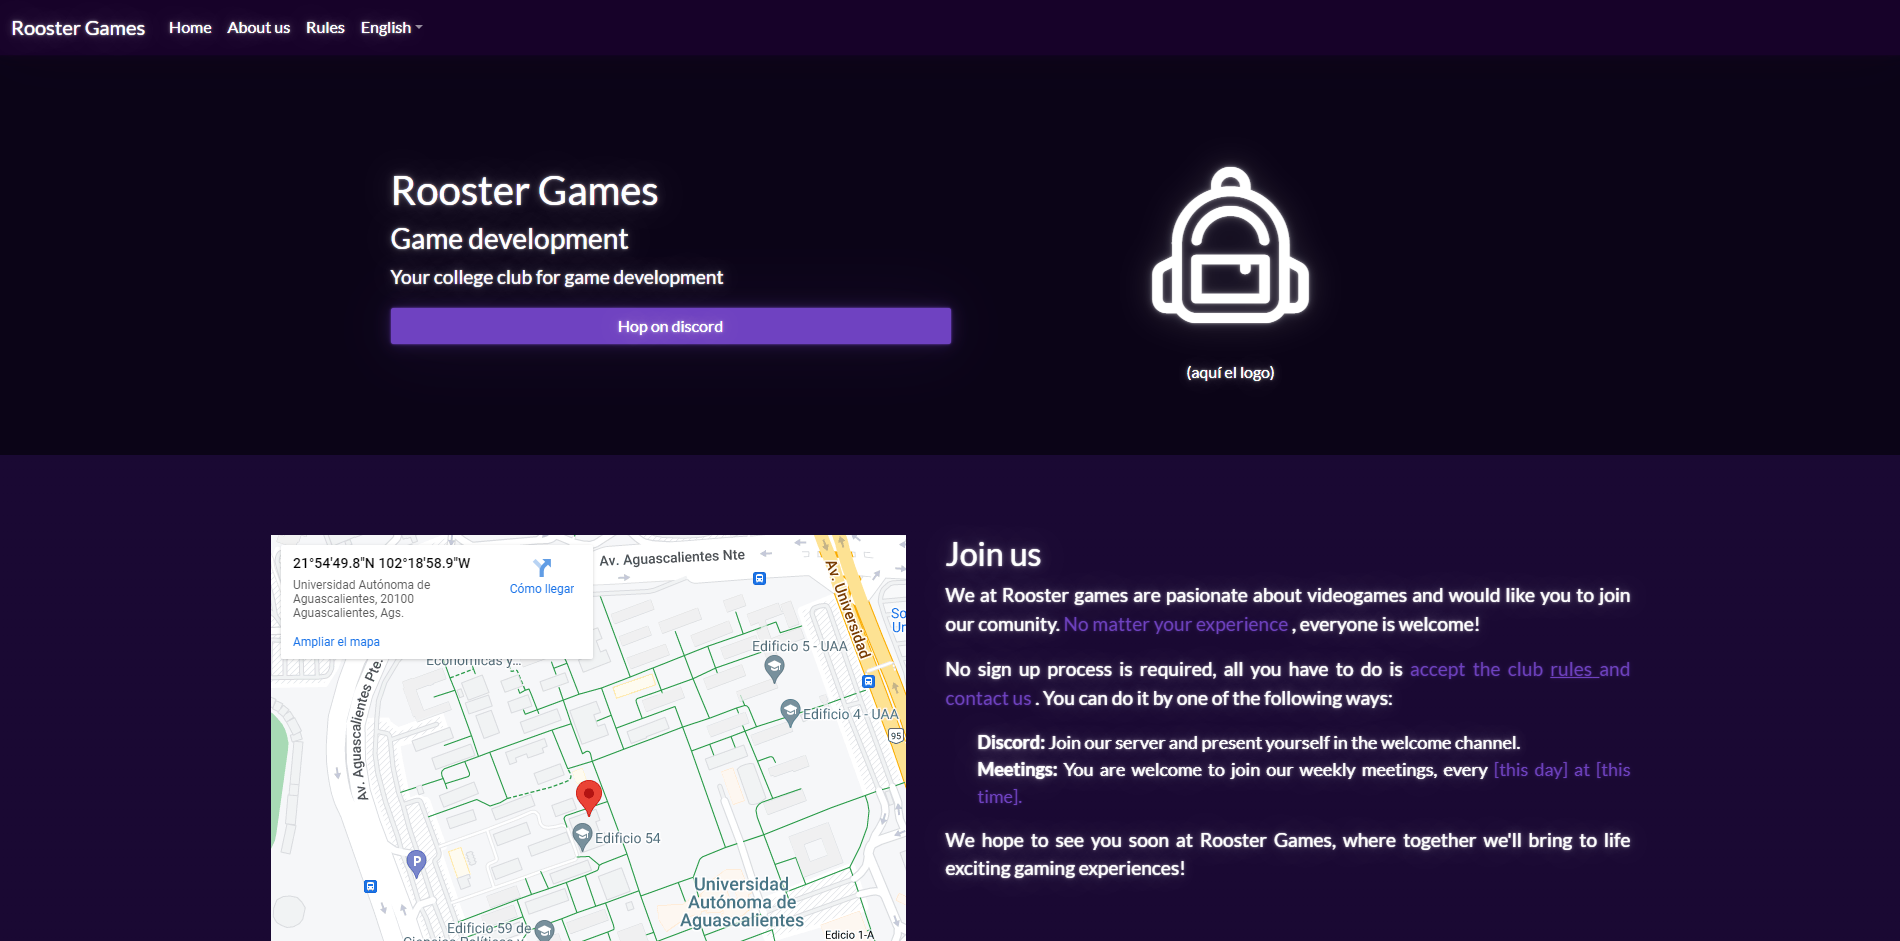
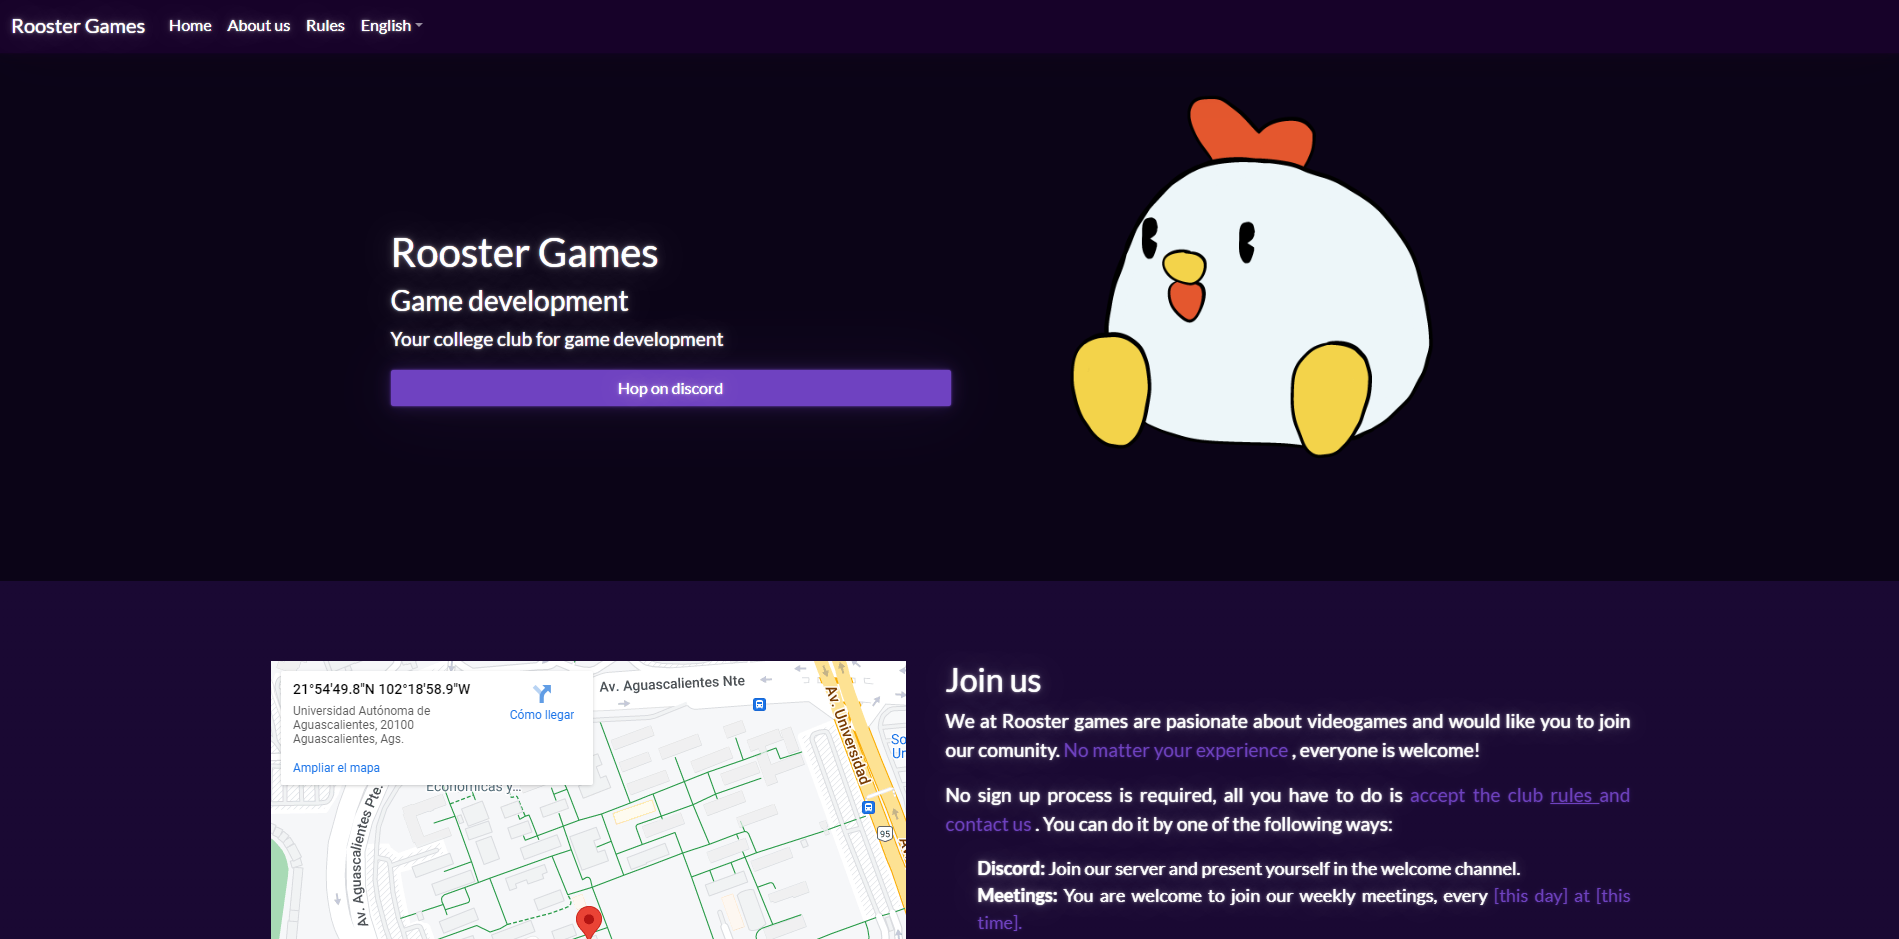
general improvement to the desktop layout

diff --git a/index.html b/index.html
@@ -4,7 +4,7 @@
     <meta charset="UTF-8">
     <meta name="viewport" content="width=device-width, initial-scale=1.0">
     <title>Leonardo Merino</title>
-    <link rel="icon" type="image/x-icon" href="img/favicon.png">
+    <link rel="icon" type="image/x-icon" href="img/favicon_1.png">
 
     <link rel="stylesheet" href="bootstrap-5.3.2-dist/css/bootstrap.min.css">
 
@@ -56,107 +56,113 @@
     <main>
 
         <section id="about-me">
-            <h3 class="section-title">About me</h3>
-            <br/>
-            <h4>
-                I'm a software developer that likes to learn and build cool stuff!
-            </h4>
-            <p>
-                For the last year I've <span class="text-info">worked prefessionally</span> with c# and c++, 
-                developing both <span class="text-info">desktop and web applications</span>. 
-                During this time I got my hands down with various <span class="text-info">source control software</span> 
-                such as git and mercurial, and mantain diferent <span class="text-info">relational databases</span> like Microsoft SQLServer and NexusDB. 
-                I'm highly interested in embedded systems and machine learning. During my free time I've learn electronics along with arduino and python. 
-                Needles to say, I like tech.
-            </p>
+
+            <div></div>
+
+            <div id="introduction">
+                <h3 class="section-title">About me</h3>
+                <br/>
+                <h4>
+                    I'm a software developer that likes to learn and build cool stuff!
+                </h4>
+                <p>
+                    For the last year I've <span class="text-info">worked prefessionally</span> with c# and c++, 
+                    developing both <span class="text-info">desktop and web applications</span>. 
+                    During this time I got my hands down with various <span class="text-info">source control software</span> 
+                    such as git and mercurial, and mantain diferent <span class="text-info">relational databases</span> like Microsoft SQLServer and NexusDB. 
+                    I'm highly interested in embedded systems and machine learning. During my free time I've learn electronics along with arduino and python. 
+                    Needles to say, I like tech.
+                </p>
+            </div>
 
         </section>
 
         <section id="experience">
-            <h3 class="section-title">Profesional Experience</h3>
-            <br></br>
-            <div id="history">
-                <div></div>
-                <div>
-                    <div class="history-line" style="height: 20px; border-radius: 5px 5px 0px 0px;"></div>
-                </div>
-                <div></div>
+            <div id="experience">
+                <h3 id="experience-title">Profesional Experience</h3>
+                <br/>
+                <div id="history">
+                    <div></div>
+                    <div>
+                        <div class="history-line" style="height: 20px; border-radius: 5px 5px 0px 0px;"></div>
+                    </div>
+                    <div></div>
 
-                <div>
-                    <h5><span class="badge bg-primary">2023</span></h5>
-                </div>
-                <div class="history-left-column-cell">
-                    <div class="history-dot"></div>
-                    <div class="history-line"></div>
-                </div>                
-                <div class="history-right-column-cell">   
-                    <h5>
-                        <strong>Junior Fullstack Developer at <a href="https://trafficsystem.mx/" target="_blank">TrafficSystem</a></strong>
-                    </h5>
-                    <p>
-                        Web and desktop application development
-                    </p>
-                    <p>
-                        <span class="badge bg-success">Current position</span>
-                        <span class="badge bg-primary">C#</span>
-                        <span class="badge bg-primary">ASP.NET Core</span>
-                        <span class="badge bg-primary">Windows Forms</span>
-                        <span class="badge bg-primary">C++</span>
-                    </p>
-                </div>
+                    <div>
+                        <h5><span class="badge bg-primary">2023</span></h5>
+                    </div>
+                    <div class="history-left-column-cell">
+                        <div class="history-dot"></div>
+                        <div class="history-line"></div>
+                    </div>                
+                    <div class="history-right-column-cell">   
+                        <h5>
+                            <strong>Junior Fullstack Developer at <a href="https://trafficsystem.mx/" target="_blank">TrafficSystem</a></strong>
+                        </h5>
+                        <p>
+                            Web and desktop application development
+                        </p>
+                        <p>
+                            <span class="badge bg-success">Current position</span>
+                            <span class="badge bg-primary">C#</span>
+                            <span class="badge bg-primary">ASP.NET Core</span>
+                            <span class="badge bg-primary">Windows Forms</span>
+                            <span class="badge bg-primary">C++</span>
+                        </p>
+                    </div>
 
-                <div></div>
-                <div>
-                    <div class="history-line"></div>
-                </div>
-                <div></div>
+                    <div></div>
+                    <div>
+                        <div class="history-line"></div>
+                    </div>
+                    <div></div>
 
-                <div>
-                    <h5><span class="badge bg-primary">2022</span></h5>
-                </div>
-                <div class="history-middle-column-cell">
-                    <div class="history-dot"></div>
-                    <div class="history-line"></div>
-                </div>                
-                <div class="history-right-column-cell">   
-                    <h5>
-                        <strong>Help Desk at <a href="https://www.iconsultingmexico.mx/" target="_blank">iConsulting</a></strong>
-                    </h5>
-                    <p>
-                        Installation and maintainance of Relational Database Management Systems. Plugin development
-                    </p>
-                    <p>
-                        <span class="badge bg-primary">Microsoft SQL Server</span>
-                        <span class="badge bg-primary">SQL</span>
-                        <span class="badge bg-primary">Python</span>
-                    </p>
-                </div>
+                    <div>
+                        <h5><span class="badge bg-primary">2022</span></h5>
+                    </div>
+                    <div class="history-middle-column-cell">
+                        <div class="history-dot"></div>
+                        <div class="history-line"></div>
+                    </div>                
+                    <div class="history-right-column-cell">   
+                        <h5>
+                            <strong>Help Desk at <a href="https://www.iconsultingmexico.mx/" target="_blank">iConsulting</a></strong>
+                        </h5>
+                        <p>
+                            Installation and maintainance of Relational Database Management Systems. Plugin development
+                        </p>
+                        <p>
+                            <span class="badge bg-primary">Microsoft SQL Server</span>
+                            <span class="badge bg-primary">SQL</span>
+                            <span class="badge bg-primary">Python</span>
+                        </p>
+                    </div>
 
-                <div></div>
-                <div class="history-middle-column-cell ">
-                    <div class="history-line" style="min-height: 100px;"></div>
-                    <div class="history-line"></div>
-                </div>
-                <div></div>
+                    <div></div>
+                    <div class="history-middle-column-cell ">
+                        <div class="history-line" style="min-height: 100px;"></div>
+                        <div class="history-line"></div>
+                    </div>
+                    <div></div>
 
-                <div>
-                    <h5><span class="badge bg-primary">2018</span></h5>
-                </div>
-                <div class="history-middle-column-cell">
-                    <div class="history-dot"></div>
-                    <div class="history-line" style="border-radius: 0px 0px 5px 5px;"></div>
-                </div>                
-                <div class="history-right-column-cell">   
-                    <h5>
-                        <strong>Customer Service Agent at <a href="https://www.teleperformance.com/" target="_blank">Teleperformance</a></strong>
-                    </h5>
-                    <p>
-                        Assistance and collection for native english speakers
-                    </p>
-                    <p><span class="badge bg-primary">English</span></p>
+                    <div>
+                        <h5><span class="badge bg-primary">2018</span></h5>
+                    </div>
+                    <div class="history-middle-column-cell">
+                        <div class="history-dot"></div>
+                        <div class="history-line" style="border-radius: 0px 0px 5px 5px;"></div>
+                    </div>                
+                    <div class="history-right-column-cell">   
+                        <h5>
+                            <strong>Customer Service Agent at <a href="https://www.teleperformance.com/" target="_blank">Teleperformance</a></strong>
+                        </h5>
+                        <p>
+                            Assistance and collection for native english speakers
+                        </p>
+                        <p><span class="badge bg-primary">English</span></p>
+                    </div>
                 </div>
             </div>
-
         </section>
 
         <section id="proyects">

diff --git a/proyects.css b/proyects.css
@@ -2,9 +2,9 @@
 {
     display: grid;
     grid-template-columns: repeat(3, 1fr);
-    grid-auto-rows: minmax(150px, auto);
+    grid-auto-rows: 250px;
     grid-gap: 10px;
-    width: 80vw;
+    /* width: 80vw; */
     margin: auto;
 }
 
@@ -69,35 +69,30 @@
 {
     grid-column: 1/3;
     grid-row: 1/2;
-    height: 350px;
 }
 
 #proyect-two
 {
     grid-column: 3/4;
     grid-row: 1/2;
-    height: 350px;
 }
 
 #proyect-three
 {
     grid-column: 1/2;
     grid-row: 2/4;
-    min-height: 350px;
 }
 
 #proyect-four
 {
     grid-column: 2/4;
     grid-row: 2/3;
-    height: 350px;
 }
 
 #proyect-five
 {
     grid-column: 2/4;
     grid-row: 3/4;
-    height: 350px;
 }
 
 @media (max-width: 800px)

diff --git a/experience.css b/experience.css
@@ -1,10 +1,21 @@
+#experience
+{
+    max-width: 600px;
+}
+
+#experience-title
+{
+    text-align: left;
+}
+
 #history
 {
     display: grid;
     grid-template-columns: 70px 40px 1fr;
     margin: auto;
-    width: 90vw;
+    /* width: 90vw; */
     max-width: 800px;
+    text-align: left;
 }
 
 .history-middle-column-cell

diff --git a/site.css b/site.css
@@ -16,3 +16,19 @@ section{
 .section-title{
     
 }
+
+main
+{
+    max-width: 1200px;
+    margin: auto;
+}
+
+section{
+    margin-top: 20px;
+}
+
+#about-me
+{
+    display: flex;
+    flex-wrap: wrap;
+}

diff --git a/header.css b/header.css
@@ -1,6 +1,7 @@
 header
 {
-    height: 100%;
+    min-height: 600px;
+    max-height: 100%;
     display: grid;
     grid-template-rows: 1fr 100px;
 }

diff --git a/introduction.css b/introduction.css
@@ -1,0 +1,11 @@
+#introduction
+{
+    text-align: left;
+
+    max-width: 500px;
+}
+
+#about-me > div > img
+{
+    max-height: 200px;
+}
